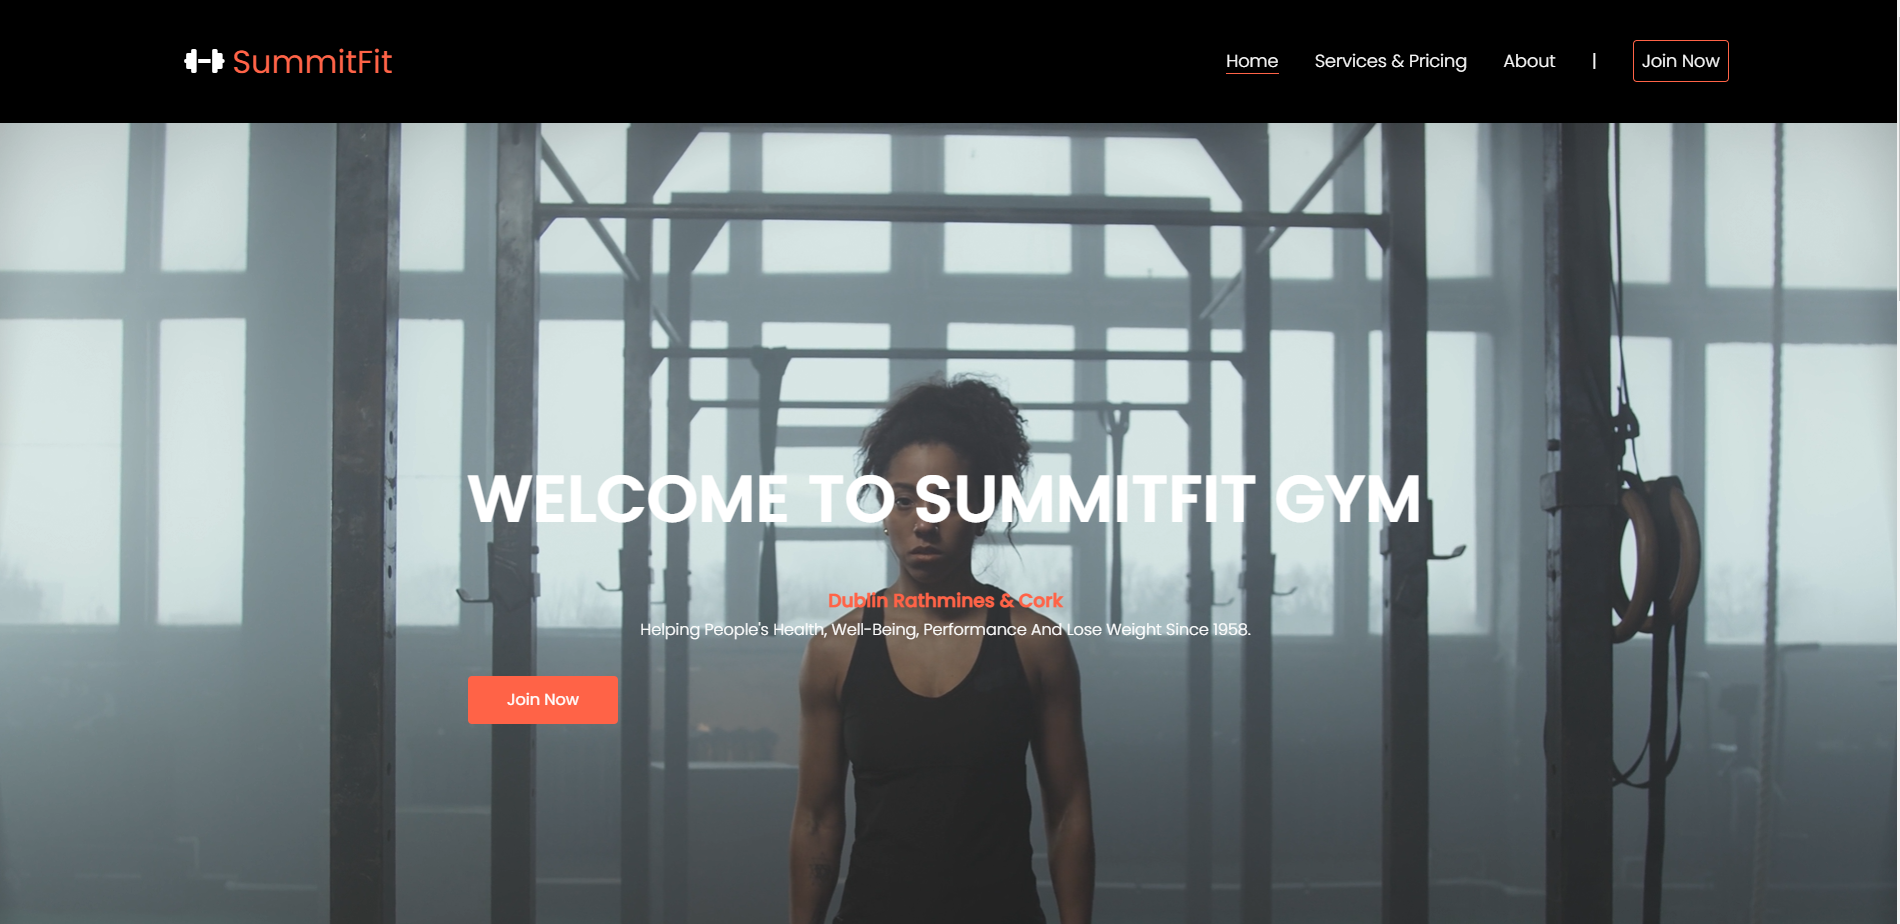
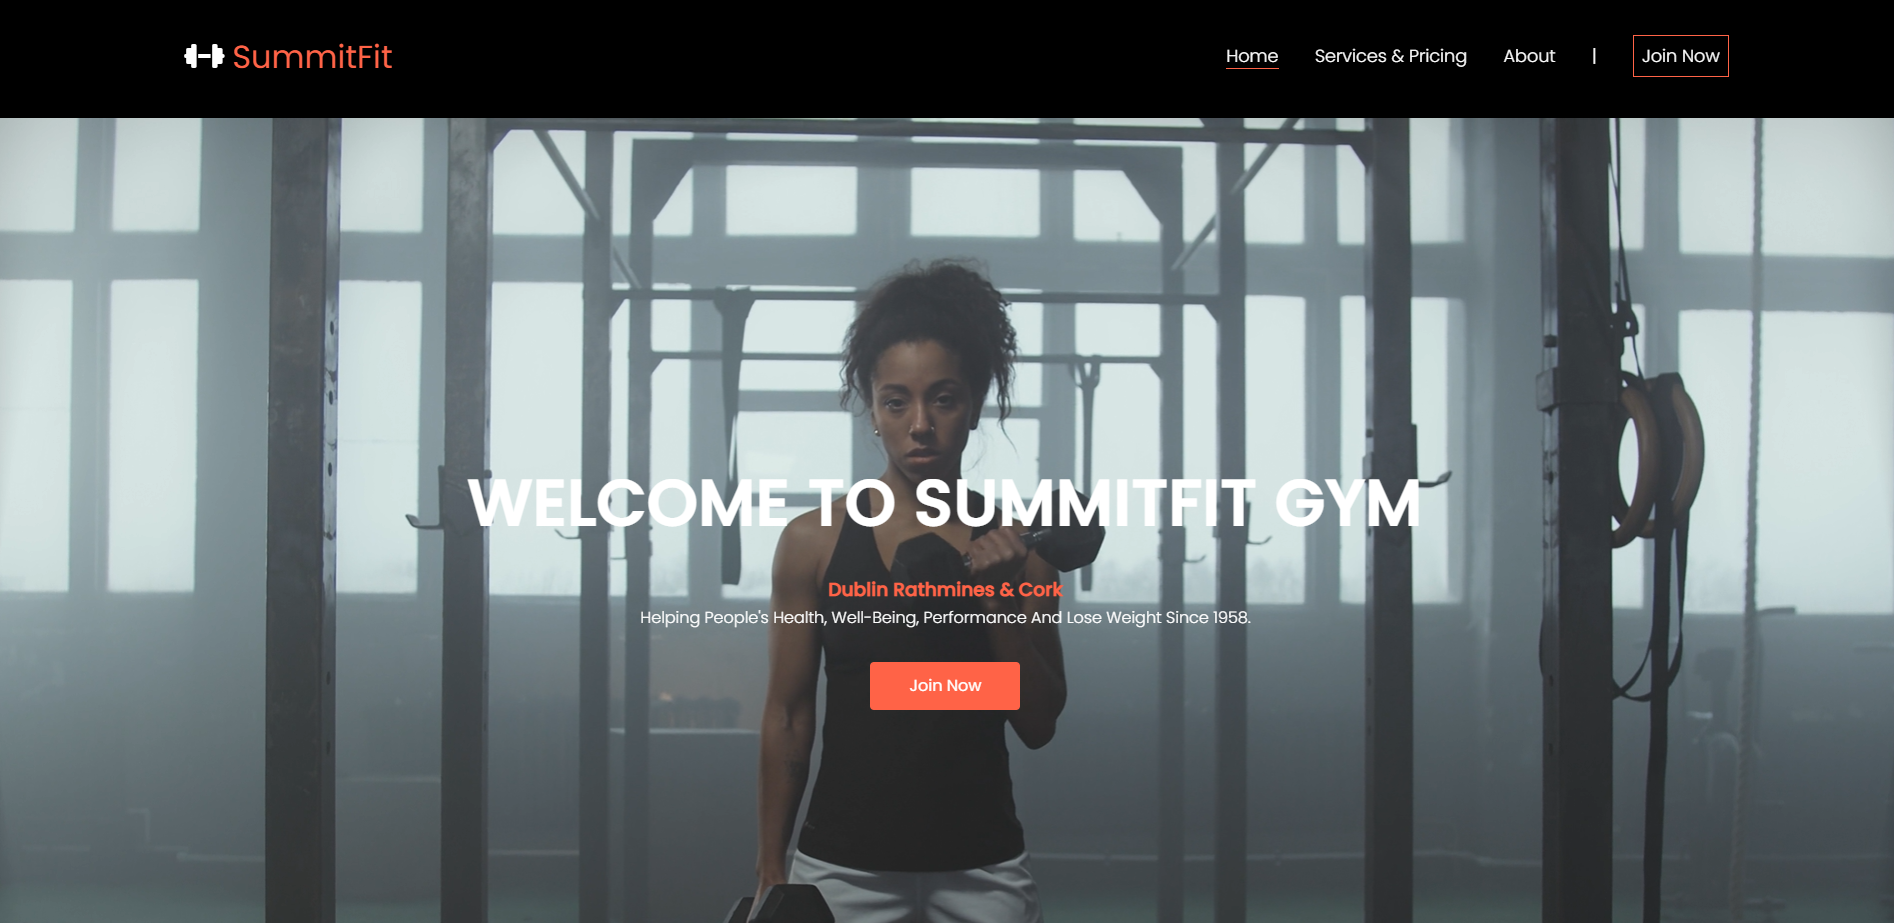
fixed centered call to action button & started writting in  the read me page

diff --git a/assets/css/style.css b/assets/css/style.css
@@ -34,6 +34,10 @@ body {
   font-size: 16px;
   border-radius: 4px;
   cursor: pointer;
+  text-align: center;
+  margin: auto;
+  display: flex;
+  justify-content: center;
 }
 
 .btn:hover {
@@ -88,7 +92,7 @@ h2 {
   color: tomato;
 }
 
-.header .btn {
+.header .btnnav {
   background: transparent;
   color: tomato;
   border: 1px solid tomato;
@@ -113,6 +117,7 @@ h2 {
   overflow: hidden;
   background-clip: url(../assets/images/video1.mp4);
   background-size: cover;
+  background-repeat: no-repeat;
 }
 
 
@@ -120,7 +125,7 @@ h2 {
   color: tomato;
   position: relative;
   text-align: center;
-  padding-top: 20px;
+  padding-top: 5px;
   display: flex;
   align-items: center;
   justify-content: center;
@@ -166,7 +171,8 @@ h1 {
 /* reasons section */
 
 #reasons {
-  height: 100%;
+  width: 100%;
+  height: 100vh;
 }
 
 #left-about {
@@ -219,7 +225,7 @@ hr {
 
 #reasonstojoin {
   text-align: center;
-  margin: 20px 0;
+  margin: 80px 0;
   font-size: 280%;
   color: white;
 }
@@ -603,13 +609,29 @@ footer {
 
 .pricing .box-container {
   display: grid;
-  grid-template-columns: repeat(auto-fit, minmax(10rem, 1fr));
-  gap: 2rem;
+  grid-template-columns: repeat(auto-fit, minmax(5rem, 2fr));
+  gap: 1rem;
 }
 
 .pricing h1 {
   text-align: center;
+  font-size: 40px;
+  color: tomato;
+  text-transform: uppercase;
+  letter-spacing: 1.5px;
+  margin: auto;
 }
+
+.pricing h1::after {
+  content: "";
+  height: 5px;
+  width: 200px;
+  background-color: #2b9ec2;
+  border-radius: 10px;
+  display: flex;
+  margin: auto;
+}
+
 
 .pricing .box-container .box {
   padding: 1rem;
@@ -617,6 +639,9 @@ footer {
   border: 0.1rem solid rgba(255, 255, 255, .2);
   box-shadow: var(--box-shadow);
   border-radius: .8rem;
+  margin-left: auto;
+  margin-right: auto;
+  margin-top: auto;
 }
 
 .pricing .box-container .box h3 {
@@ -624,6 +649,7 @@ footer {
   text-transform: capitalize;
   color: var(--primary);
   padding-top: 1rem;
+  color: #2b9ec2;
 }
 
 .pricing .box-container .box .price {

diff --git a/services.html b/services.html
@@ -24,7 +24,7 @@
             <a href="services.html">Services & Pricing</a>
             <a href="about.html">About</a>
             <a href="#">|</a>
-            <a href="join.html" class="btn">Join now</a>
+            <a href="join.html" class="btnnav">Join now</a>
         </nav>
     </header>
 
@@ -32,6 +32,7 @@
     <section class="pricing" id="pricing">
         <br>
         <h1 class="heading">Pricing</h1>
+        <br>
         <br>
         <div class="box-container">
 
@@ -83,6 +84,14 @@
 
     <!-- Footer -->
     <footer>
+        <div class="address">
+            <h3>Address</h3>
+            <p>42 Camden Street, Dublin 2<br>
+                Dublin, Ireland<br>
+                <span style="font-weight: bold;">Phone:</span>
+                <span>+353 08940545455</span>
+            </p>
+        </div>
         <ul class="social-networks">
             <li>
                 <a href="https://facebook.com" target="_blank" rel="noopener"

diff --git a/index.html b/index.html
@@ -35,7 +35,7 @@
             <a href="services.html">Services & Pricing</a>
             <a href="about.html">About</a>
             <a href="#">|</a>
-            <a href="join.html" class="btn">Join now</a>
+            <a href="join.html" class="btnnav">Join now</a>
         </nav>
     </header>
 
@@ -50,7 +50,6 @@
             <div class="slider-container">
                 <h1>Welcome to SummitFit gym</h1>
                 <h3>Dublin Rathmines & Cork</h3>
-
                 <p class="desc">Helping people's health, well-being, performance and lose weight since 1958.</p>
                 <form action="/join.html" class="inline">
                     <button class="btn">Join now</button>

diff --git a/about.html b/about.html
@@ -24,7 +24,7 @@
             <a href="services.html">Services & Pricing</a>
             <a href="about.html">About</a>
             <a href="#">|</a>
-            <a href="join.html" class="btn">Join now</a>
+            <a href="join.html" class="btnnav">Join now</a>
         </nav>
     </header>
 

diff --git a/join.html b/join.html
@@ -24,7 +24,7 @@
             <a href="services.html">Services & Pricing</a>
             <a href="about.html">About</a>
             <a href="#">|</a>
-            <a href="join.html" class="btn">Join now</a>
+            <a href="join.html" class="btnnav">Join now</a>
         </nav>
     </header>
 

diff --git a/README.md b/README.md
@@ -2,21 +2,36 @@
 
 # SummitFit
 
-SummitFit is a gym in Ireland 
+Summitfit is a gym website focused to audience located in ireland, Dublin and Cork city. This website has been built with the aim to keep users informed about us, our services, pricing and offering an easy way for users to join our club.
+
+Summitfit was born in 2022! Dublin opened in january,2022, followed by the first location outside dublin, and in Cork city in may 2022! 
+
+Summitfit is the first commercial gym to have a heated chamber. The heated chamber is now available in dublin & cork too.
+
+At summitfit we're here to provide a unique environment in which anyone can be comfortable. A diverse, judgement free zone® where a lasting, active lifestyle can be built. 
+
+Our product is a tool, a means to an end; not a brand name or a mold-maker, but a tool that can be used by anyone. In the end, it’s all about you. As we evolve and educate ourselves, we will seek to perfect this safe, energetic environment, where everyone feels accepted and respected. We are not here to kiss your butt, only to kick it if that’s what you need.
 
 <div align="center">
     <img src="assets/images/screenshots/screenshothome.png" width="400px"</img> 
 </div>
 
-
-
 # Features
+
+The application intends to attract users getting to know SummitFit. Through this application, users can access the HomePage, learn about the Pricing and Services and Join us by completing the Join now form. Below are a brief overview of each page and features.
 
 # Existing Features
 
 ## Navigation Bar
 
+The navigation bar is featured on all four pages, the full responsive navigation bar includes links to the Logo, Home page, Services & Pricing page, About us and Join now page and is identical in each page to allow for easy navigation.
+
+The navbar will allow the user to easily navigate from page to page across all devices without having to revert back to the previous page via the ‘back’ button.
+
 * The landing page image
+<br>
+The landing page includes welcoming message, a video to grab user's attention with a text overlay to allow users to visualize which audience this website would be applicable to. There is also a call to action button redirecting to the registration form.
+
 <div align="center">
     <img src="assets/images/screenshots/screenshothome.png" width="400px"</img> 
 </div>
